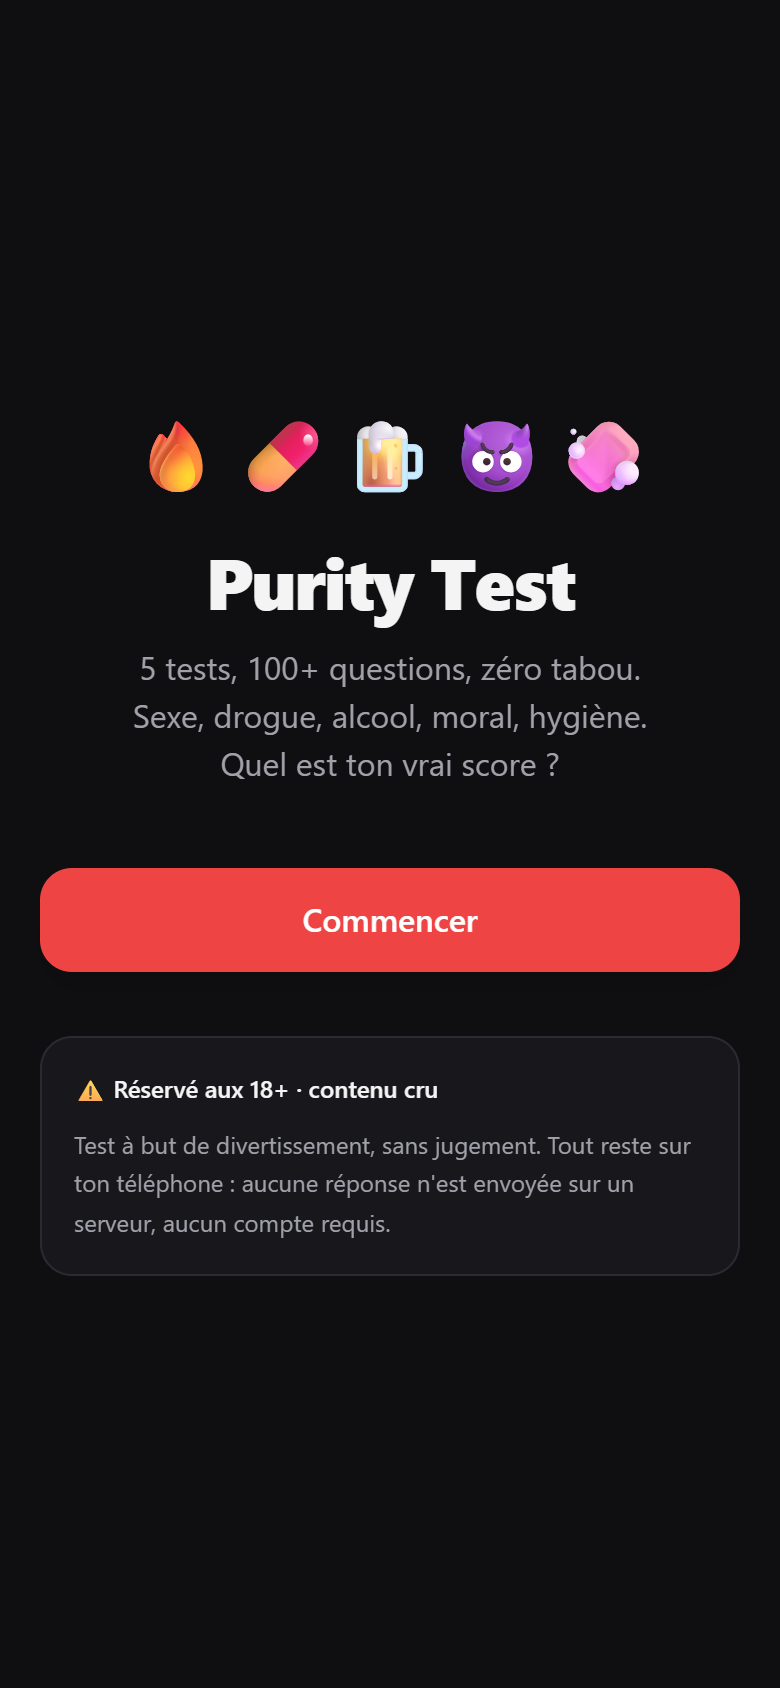
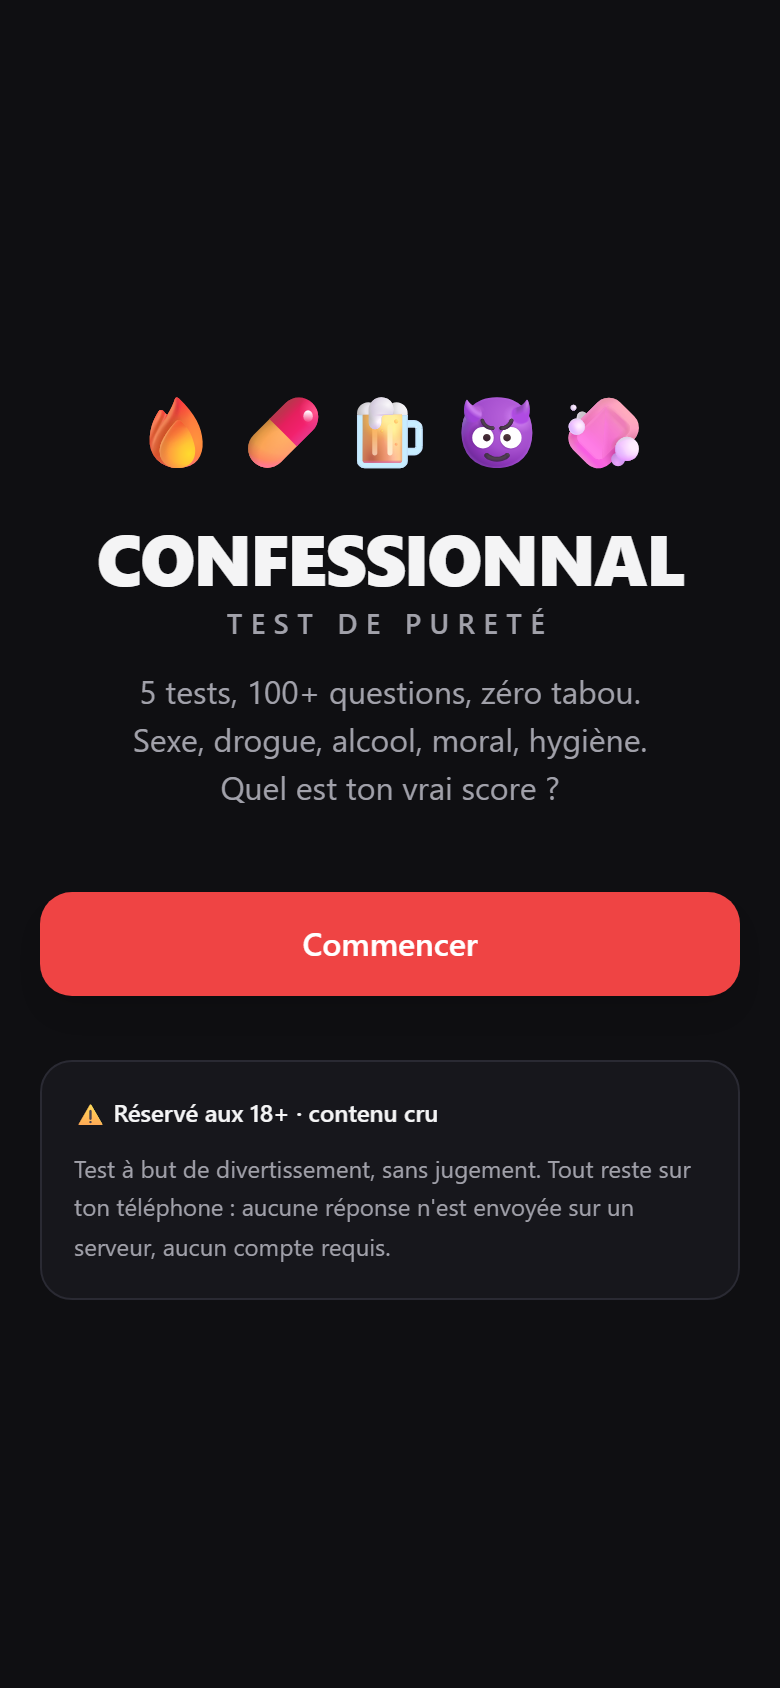
feat: rename app to "Confessionnal" with "Test de pureté" subtitle
Display name only (title, PWA manifest, share text, icons now show "C");
repo and URL stay purity-test so existing share links keep working.

Changed region(s): [[0.0308, 0.2156, 0.9538, 0.7701]]

diff --git a/src/screens/GlobalResult.tsx b/src/screens/GlobalResult.tsx
@@ -29,7 +29,7 @@ export function GlobalResult() {
   const totalElapsedMs = Object.values(elapsedMs).reduce((sum, ms) => sum + (ms ?? 0), 0);
   const answeredCount = result.perCategory.reduce((sum, r) => sum + r.answered, 0);
   const portrait = buildPortrait(scoreById as ScoreMap, answers);
-  const shareText = `Mon Purity Test : ${result.total}/${result.maxTotal} — ${result.profile?.title}. Et toi ?`;
+  const shareText = `Mon score au Confessionnal : ${result.total}/${result.maxTotal} — ${result.profile?.title}. Et toi ?`;
 
   return (
     <Page>

diff --git a/src/screens/Home.tsx b/src/screens/Home.tsx
@@ -17,7 +17,10 @@ export function Home() {
             <span key={c.id}>{c.emoji}</span>
           ))}
         </div>
-        <h1 className="text-4xl font-black tracking-tight">Purity Test</h1>
+        <h1 className="text-4xl font-black uppercase tracking-tight">Confessionnal</h1>
+        <p className="mt-1 text-sm font-semibold uppercase tracking-[0.3em] text-[var(--color-muted)]">
+          Test de pureté
+        </p>
         <p className="mt-3 text-[var(--color-muted)]">
           5 tests, 100+ questions, zéro tabou.
           <br />

diff --git a/vite.config.ts b/vite.config.ts
@@ -13,8 +13,8 @@ export default defineConfig({
       registerType: "autoUpdate",
       includeAssets: ["icon.svg", "icon-maskable.svg", "apple-touch-icon.png"],
       manifest: {
-        name: "Purity Test",
-        short_name: "Purity",
+        name: "Confessionnal — Test de pureté",
+        short_name: "Confessionnal",
         description:
           "Test d'expérience : sexe, drogue, alcool, moral, hygiène. 100% privé.",
         lang: "fr",

diff --git a/index.html b/index.html
@@ -10,7 +10,7 @@
     />
     <meta name="theme-color" content="#0f0f12" />
     <meta name="description" content="Test d'expérience : sexe, drogue, alcool, moral, hygiène. 100% privé, rien ne quitte ton téléphone." />
-    <title>Purity Test</title>
+    <title>Confessionnal — Test de pureté</title>
   </head>
   <body>
     <div id="root"></div>

diff --git a/src/components/SharePanel.tsx b/src/components/SharePanel.tsx
@@ -41,7 +41,7 @@ export function SharePanel({ url, text, onClose }: SharePanelProps) {
 
   async function shareNatively() {
     try {
-      await navigator.share({ title: "Purity Test", text, url });
+      await navigator.share({ title: "Confessionnal", text, url });
     } catch {
       // user cancelled the share sheet — ignore
     }

diff --git a/src/smoke.test.ts b/src/smoke.test.ts
@@ -29,7 +29,7 @@ function mount(path: string): string {
 
 describe("app renders without crashing", () => {
   it("renders Home", () => {
-    expect(mount("/")).toContain("Purity Test");
+    expect(mount("/")).toContain("Confessionnal");
   });
 
   it("renders the Hub", () => {

diff --git a/SUIVI.md b/SUIVI.md
@@ -1,13 +1,14 @@
-# SUIVI — Purity Test
+# SUIVI — Confessionnal (test de pureté)
 
 ## 🧭 Ligne directrice
-*(maj 2026-11-22)* — **v1 EN LIGNE** : https://floran-grmxx.github.io/purity-test/
+*(maj 2026-11-23)* — **v1 EN LIGNE** : https://floran-grmxx.github.io/purity-test/
 (repo public `Floran-grmxx/purity-test`, déploiement auto à chaque push sur `main`).
 **Nouveau (pushé le 2026-11-22)** : réponses contradictoires masquées (`answerLimits`),
 comptages chiffrés, questions de fréquence au passé, **portrait** texte sous les résultats
 (aussi sur la page partagée, version scores seuls), **partage par QR code**. **72/72 tests
 verts**, build propre. Questions à un seul choix répondues automatiquement, temps de réponse affiché.
-**Prochaine priorité** : vérif sur téléphone (scan du QR), choix du nom.
+**Nom définitif : « Confessionnal »** (sous-titre « Test de pureté », icône « C »).
+**Prochaine priorité** : vérif sur téléphone (scan du QR, install PWA).
 
 ## ✅ Fait
 - [x] Cadrage (QCM pondéré, 5 catégories, ton sérieux + questions trash)
@@ -49,7 +50,7 @@ verts**, build propre. Questions à un seul choix répondues automatiquement, te
 - [x] Déploiement statique → GitHub Pages (Actions, repo public)
 - [ ] Vérification visuelle réelle sur téléphone + install PWA
 - [x] Relecture/édition fine des questions (revue par 5 sous-agents + corrections appliquées)
-- [ ] Choisir le nom définitif (actuel : « Purity Test »)
+- [x] Nom définitif : « Confessionnal » + sous-titre « Test de pureté » (nom affiché seulement)
 - [x] Icônes PNG (192, 512, maskable 512, apple-touch 180) générées depuis les SVG et déclarées
 
 ## 📋 Notes / gotchas
@@ -57,6 +58,7 @@ verts**, build propre. Questions à un seul choix répondues automatiquement, te
 - **Chaîne alcool** : `alcool-01`≥« Plusieurs fois » débloque cuite/vomi/jeux/shots/binge ; `alcool-05` (« première cuite » ≠ Jamais) débloque ivresse, blackout, honte, gueule de bois, verre du lendemain. Masquer = 0 pt = même score que « Jamais ». Tester avec des profils simulés (1re / 2e / milieu / dernière réponse) après chaque changement de gates.
 - **Réponse `notApplicable: true`** (« Pas concerné·e ») : la question sort du score (ni gagnés ni max). Doit valoir 0 pt. Utilisé par hygiene-21. `drogue-16` (nombre de substances) supprimée car elle contredisait les réponses précédentes.
 - **`answerLimits`** : masque les réponses qui contrediraient une réponse précédente (ex. record de verres ≥ soirée normale, ivresse ≤ fréquence de consommation). Une réponse stockée devenue contradictoire est ignorée (`sanitizeAnswers`) et la question est reposée. Échelle de comptage standard : `Jamais | 1 fois | 2 à 10 fois | Plus de 10 fois` (garder 4 réponses pour ne pas décaler les index des gates).
+- **Renommage = nom affiché seulement** : le repo et l'URL restent `purity-test` (renommer casserait les liens/QR déjà partagés et le `base` Vite).
 - Sens du score : **haut = expérimenté**, bas = innocent.
 - Score global = **somme** des 5 catégories (/100 chacune) → **/500**.
 - Spec à plat dans `docs/` (préférence utilisateur).

diff --git a/README.md b/README.md
@@ -1,4 +1,4 @@
-# Purity Test
+# Confessionnal — Test de pureté
 
 Web app mobile-first (PWA) — un **test d'expérience** en 5 catégories
 indépendantes : sexe, drogue, alcool, moral, hygiène. QCM pondéré, ton cru et
